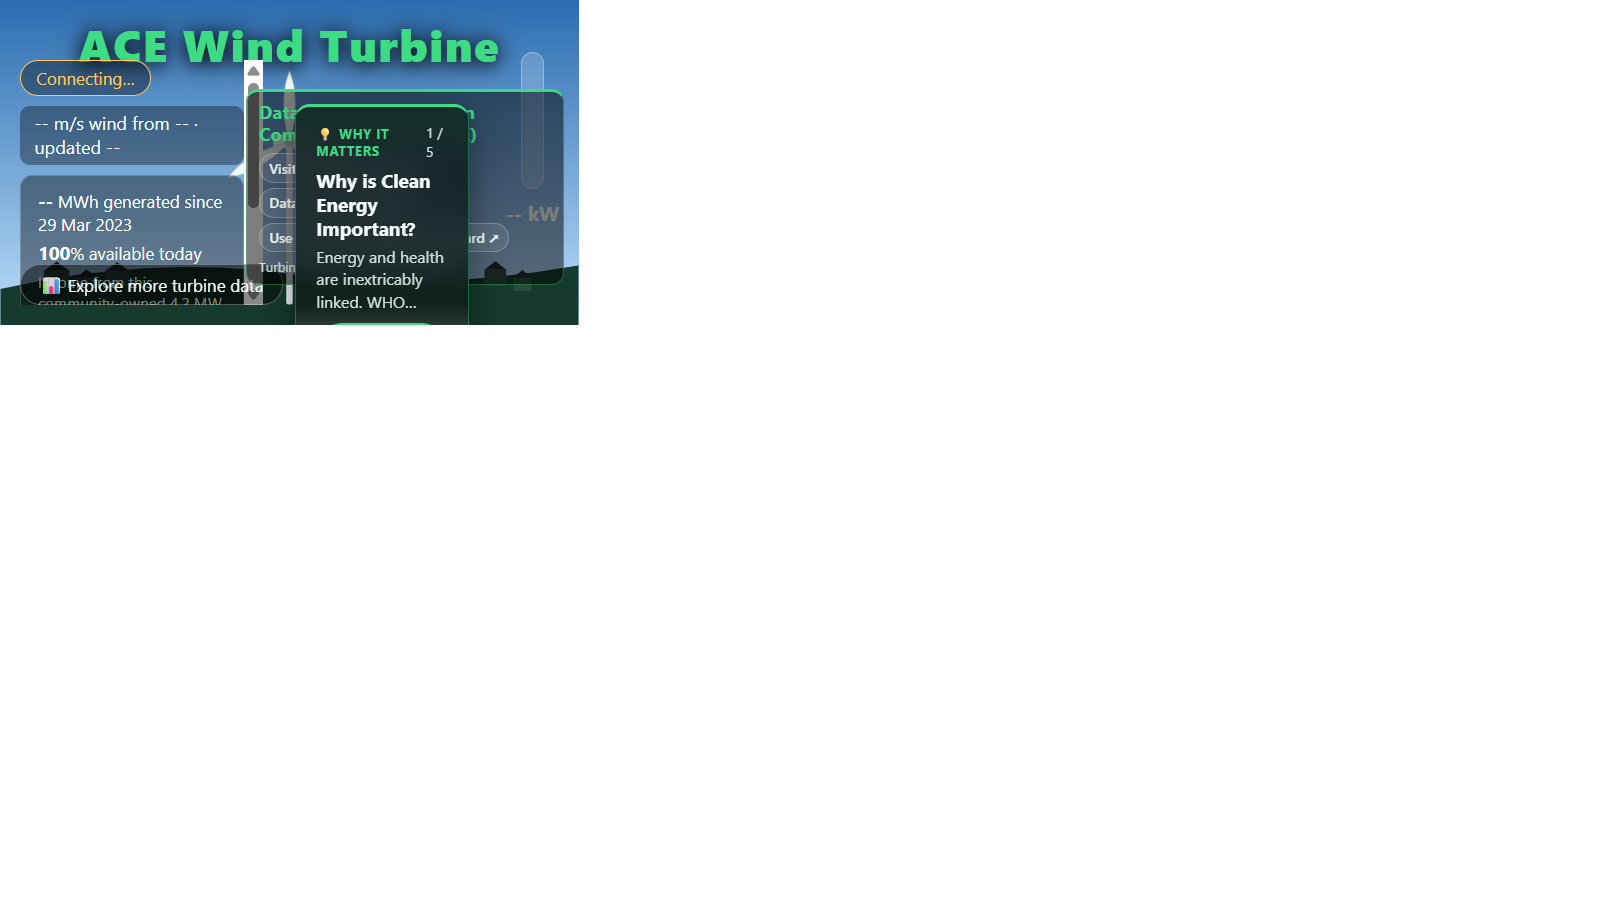
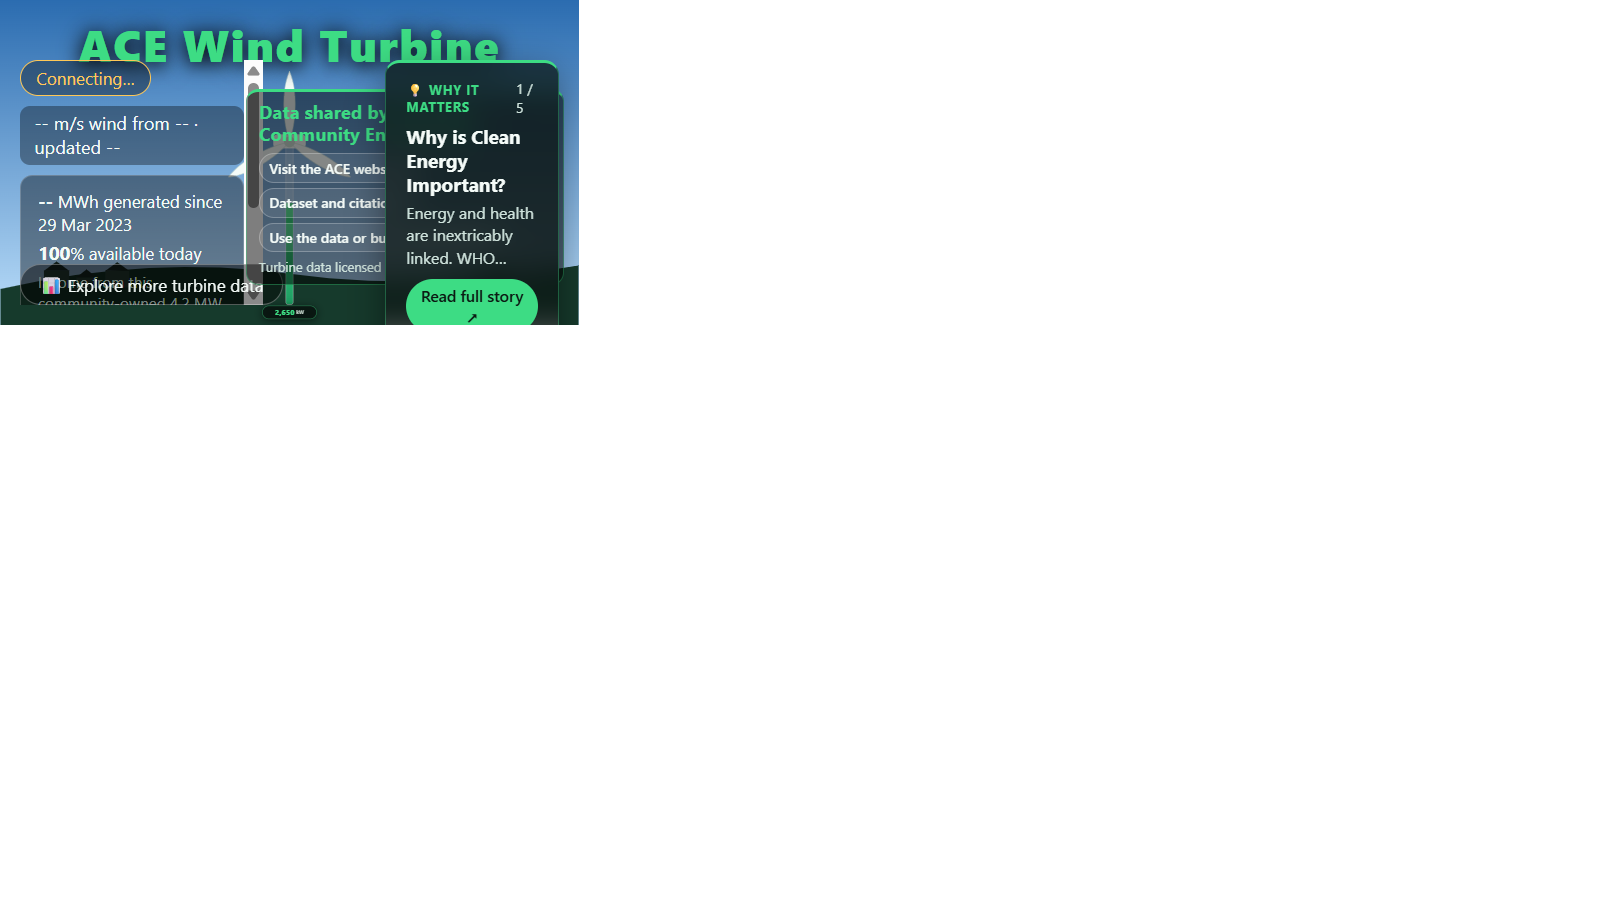
Use turbine tower as active power generation bar and create symmetric layout
- Turn turbine tower into the active power generation gauge rising to 4.2 MW capacity in brand green
- Add clear active power numeric badge directly beneath the tower base
- Remove separate right-hand active power vertical bar
- Move WHY IT MATTERS story dock to the right margin to symmetrically mirror the left-hand overlay
- Update concept-7 README documentation and screenshot

Changed region(s): [[0.1562, 0.0622, 0.375, 0.3733]]

diff --git a/solutions/concept-7-live-digital-twin-popups/styles.css b/solutions/concept-7-live-digital-twin-popups/styles.css
@@ -88,8 +88,53 @@ body {
   fill: #1c2f27;
 }
 
-.tower {
-  fill: #e9f1f8;
+/* Turbine Tower & Live Active Power Generation Gauge */
+.tower-track {
+  fill: rgba(233, 241, 248, 0.22);
+  stroke: rgba(255, 255, 255, 0.25);
+  stroke-width: 1;
+}
+
+.tower-fill {
+  fill: url(#tower-power-gradient);
+  transition: y 1s ease-out, height 1s ease-out;
+}
+
+.tower-outline {
+  fill: none;
+  stroke: rgba(255, 255, 255, 0.45);
+  stroke-width: 1.5;
+  pointer-events: none;
+}
+
+.tower-power-badge {
+  filter: drop-shadow(0 4px 12px rgba(0, 0, 0, 0.65));
+}
+
+.tower-power-bg {
+  fill: rgba(8, 20, 16, 0.88);
+  stroke: rgba(61, 220, 132, 0.5);
+  stroke-width: 1.5;
+}
+
+.tower-power-text {
+  font-family: inherit;
+  font-size: 18px;
+  fill: #ffffff;
+  pointer-events: none;
+}
+
+.tower-power-val {
+  fill: var(--good);
+  font-weight: 800;
+  font-size: 20px;
+}
+
+.tower-power-unit {
+  fill: #cfe0d6;
+  font-weight: 600;
+  font-size: 14px;
+  letter-spacing: 0.02em;
 }
 
 .nacelle {
@@ -130,48 +175,6 @@ body {
   z-index: 1;
 }
 
-/* Vertical power meter (right-hand side) */
-.meter {
-  position: absolute;
-  right: clamp(1rem, 2.5vw, 2rem);
-  top: 16%;
-  display: flex;
-  flex-direction: column;
-  align-items: center;
-  gap: 0.5rem;
-  z-index: 1;
-}
-
-.meter-track {
-  width: 18px;
-  height: 42vh;
-  border-radius: 999px;
-  background: rgba(255, 255, 255, 0.18);
-  border: 1px solid rgba(255, 255, 255, 0.3);
-  display: flex;
-  align-items: flex-end;
-  overflow: hidden;
-}
-
-.meter-fill {
-  width: 100%;
-  height: 0%;
-  background: linear-gradient(180deg, #3ddc84, #1f9e63);
-  transition: height 1s ease-out;
-}
-
-.meter-label {
-  font-size: clamp(1rem, 1.6vw, 1.4rem);
-  font-weight: 700;
-}
-
-.meter-sub {
-  font-size: 0.75rem;
-  color: var(--muted);
-  text-align: center;
-  max-width: 10ch;
-}
-
 /* Left overlay: live stats and ALW mission */
 .overlay {
   position: absolute;
@@ -183,7 +186,7 @@ body {
   gap: 0.5rem;
   align-items: flex-start;
   overflow-y: auto;
-  max-width: min(36ch, 42vw);
+  max-width: min(34ch, 30vw);
   z-index: 2;
   pointer-events: none;
 }
@@ -267,7 +270,7 @@ body {
 .explorer {
   position: absolute;
   left: clamp(1rem, 3vw, 2rem);
-  bottom: clamp(1rem, 3vw, 2rem);
+  bottom: clamp(1.5rem, 3.5vh, 2.75rem);
   max-width: min(44ch, 90vw);
   z-index: 2;
 }
@@ -432,8 +435,8 @@ body {
    ========================================================================= */
 .story-dock {
   position: absolute;
-  right: clamp(5.5rem, 7.8vw, 7.5rem);
-  top: clamp(5.2rem, 12vh, 7.4rem);
+  right: clamp(1rem, 3vw, 2rem);
+  top: clamp(3rem, 6.5vh, 5rem);
   max-width: min(34ch, 30vw);
   background: rgba(8, 20, 16, 0.72);
   backdrop-filter: blur(12px);
@@ -561,9 +564,9 @@ body {
    ========================================================================= */
 .credits-box {
   position: absolute;
-  right: clamp(0.75rem, 2vw, 1.5rem);
-  bottom: clamp(2rem, 4.5vh, 3.25rem);
-  max-width: min(38ch, 55vw);
+  right: clamp(1rem, 3vw, 2rem);
+  bottom: clamp(1.5rem, 3.5vh, 2.75rem);
+  max-width: min(34ch, 30vw);
   background: rgba(0, 0, 0, 0.5);
   border: 1px solid rgba(61, 220, 132, 0.4);
   border-top: 3px solid var(--good);
@@ -571,6 +574,7 @@ body {
   padding: 0.6em 0.8em;
   font-size: 0.78rem;
   z-index: 2;
+  backdrop-filter: blur(8px);
 }
 
 .credits-label {

diff --git a/solutions/concept-7-live-digital-twin-popups/index.html b/solutions/concept-7-live-digital-twin-popups/index.html
@@ -14,6 +14,16 @@
 
     <svg class="landscape" viewBox="0 0 1600 900" preserveAspectRatio="xMidYMid meet" role="img"
          aria-label="Animated illustration of the ACE wind turbine overlooking Lawrence Weston">
+      <defs>
+        <linearGradient id="tower-power-gradient" x1="0" y1="1" x2="0" y2="0">
+          <stop offset="0%" stop-color="#1f9e63" />
+          <stop offset="100%" stop-color="#3ddc84" />
+        </linearGradient>
+        <clipPath id="tower-clip">
+          <rect x="790" y="393" width="20" height="450" rx="6" />
+        </clipPath>
+      </defs>
+
       <path class="hill" d="M0,900 L0,800 Q420,705 800,758 T1600,735 L1600,900 Z" />
 
       <g class="houses">
@@ -24,7 +34,26 @@
         <g transform="translate(1420,768)"><rect width="50" height="38" class="house-body" /><polygon points="0,0 25,-20 50,0" class="house-roof" /></g>
       </g>
 
-      <rect x="791" y="393" width="18" height="450" rx="6" class="tower" />
+      <!-- Turbine Tower / Live Active Power Generation Gauge -->
+      <g class="tower-gauge" id="tower-gauge" aria-label="Turbine tower active power generation gauge">
+        <!-- Tower track background (4.2 MW capacity) -->
+        <rect x="790" y="393" width="20" height="450" rx="6" class="tower-track" />
+        <!-- Live active power fill (rises from base up to 4.2 MW capacity) -->
+        <g clip-path="url(#tower-clip)">
+          <rect id="meter-fill" x="790" y="843" width="20" height="0" class="tower-fill" />
+        </g>
+        <!-- Tower outer border -->
+        <rect x="790" y="393" width="20" height="450" rx="6" class="tower-outline" />
+
+        <!-- Live active power badge directly under the tower -->
+        <g class="tower-power-badge" transform="translate(800, 865)">
+          <rect x="-75" y="-18" width="150" height="36" rx="18" class="tower-power-bg" />
+          <text text-anchor="middle" dominant-baseline="central" class="tower-power-text">
+            <tspan id="power-value" class="tower-power-val">--</tspan>
+            <tspan class="tower-power-unit"> kW</tspan>
+          </text>
+        </g>
+      </g>
       <g id="yaw-group">
         <rect x="755" y="372" width="90" height="39" rx="12" class="nacelle" />
         <g id="rotor" class="rotor">
@@ -37,14 +66,6 @@
     </svg>
 
     <h1 class="scene-title">ACE Wind Turbine</h1>
-
-    <!-- Right-hand side power meter -->
-    <div class="meter" aria-hidden="true">
-      <div class="meter-track">
-        <div class="meter-fill" id="meter-fill"></div>
-      </div>
-      <div class="meter-label"><span id="power-value">--</span> kW</div>
-    </div>
 
     <!-- Right-hand side story & "Why?" dock -->
     <aside class="story-dock" id="story-dock" aria-label="Community Stories and Why Clean Energy Matters">

diff --git a/solutions/concept-7-live-digital-twin-popups/app.js b/solutions/concept-7-live-digital-twin-popups/app.js
@@ -470,7 +470,9 @@ function handleLiveData(data) {
   yawGroupEl.setAttribute('transform', `translate(${yawOffsetPx.toFixed(1)}, 0)`);
 
   const fraction = Math.max(0, Math.min(1, power / ratedCapacityKw));
-  meterFillEl.style.height = `${fraction * 100}%`;
+  const fillHeight = fraction * 450;
+  meterFillEl.setAttribute('y', (843 - fillHeight).toFixed(1));
+  meterFillEl.setAttribute('height', fillHeight.toFixed(1));
 
   headingValueEl.textContent = `${compassLabel(heading)} (${Math.round(heading)}°)`;
   updateWindVisual(wind);

diff --git a/solutions/concept-7-live-digital-twin-popups/README.md b/solutions/concept-7-live-digital-twin-popups/README.md
@@ -52,10 +52,11 @@ The **Story & Impact Dock** on the right-hand side satisfies both modes:
 
 ## Right-hand Side Layout Architecture
 
-The right-hand side is carefully proportioned to prevent overlap:
-- **Power meter:** Placed on the right margin (`right: clamp(1rem, 2.5vw, 2rem)`), tracking active generation vs. 4,245 kW capacity.
-- **Story dock:** Positioned comfortably to the left of the meter (`right: clamp(6.2rem, 9.2vw, 8.4rem); top: clamp(1rem, 2.6vw, 2rem); max-width: min(34ch, 30vw)`). On standard 16:9 displays (1920×1080 and 1280×720), this leaves over 100–290px of clear space between the rotor blades and the dock.
-- **Credits box:** Anchored to the bottom-right corner, below both the meter and the story dock.
+The display is architected with a balanced, symmetric layout:
+- **Turbine Tower as Live Power Gauge:** Rather than an auxiliary vertical bar, the wind turbine tower itself serves as the active generation power gauge, rising from the base to 4,245 kW rated capacity in brand green (`#3ddc84`), with the live numeric kW reading cleanly badged directly beneath the tower foot.
+- **Left-hand Overlay:** Anchored to `left: clamp(1rem, 3vw, 2rem)` and `top: clamp(3rem, 6.5vh, 5rem)`, displaying live connection status, wind speed/direction, and cumulative energy.
+- **Right-hand Story Dock:** Anchored to `right: clamp(1rem, 3vw, 2rem)` and `top: clamp(3rem, 6.5vh, 5rem)`, perfectly mirroring the left overlay to create an uncluttered, horizontally symmetric upper display.
+- **Credits box:** Anchored to the bottom-right corner (`right: clamp(1rem, 3vw, 2rem); bottom: clamp(1.5rem, 3.5vh, 2.75rem)`), aligned with the story dock.
 - **Story modal:** Center-stage overlay with dark frosted backdrop (`backdrop-filter: blur(8px)`), accessible close button (`✕`), keyboard navigation (`Escape`, `Tab`), previous/next topic paging, and indicator dots.
 
 ## Live ACE Data Used
